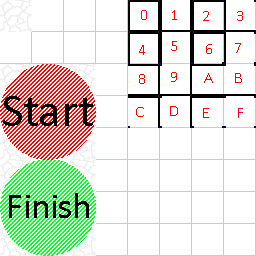
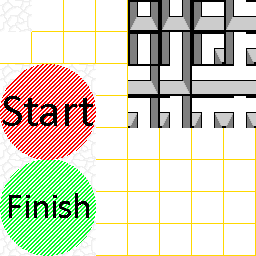
editing TODO list and making a better tilemap

Changed region(s): [[0.5, 0.0, 1.0, 0.5]]

diff --git a/src/me/dylan/mvcGame/game/GameController.java b/src/me/dylan/mvcGame/game/GameController.java
@@ -1,6 +1,5 @@
 package me.dylan.mvcGame.game;
 
-import me.dylan.mvcGame.game.gameObjects.Tiles;
 import me.dylan.mvcGame.game.gameObjects.specialTiles.SpecialTile;
 import me.dylan.mvcGame.main.MainModel;
 import me.dylan.mvcGame.state.State;
@@ -24,26 +23,25 @@ public class GameController extends State {
     public void init(int previousState) {
         SpecialTile.registerAllSpecialTiles();
 
-        /*GameModel model = new GameModel(mainModel, 40, 29);
+        GameModel model = new GameModel(mainModel, 40, 29);
         for(int i = 0; i < (40 * 29); i++){
-            if((i / 40) % 4 == 0 || i % 40 == 0 || i % 40 == model.getWorldXSize() - 1) model.setTileID(Tiles.WALL_ID, i % 40, i / 40);
-            else model.setTileID(Tiles.FLOOR_ID, i % 40, i / 40);
+            model.setTileID((byte)(Math.random() * 2 + 1), i % 40, i / 40);
 
-            model.setUnderGroundColor(/*(int)(Math.random() * 256 * 256 * 256)*//* 256 * 256 * 256 - 1, i % 40, i / 40);
+            model.setUnderGroundColor(/*(int)(Math.random() * 256 * 256 * 256)*/ 256 * 256 * 256 - 1, i % 40, i / 40);
         }
 
 
-        GameMapLoader.saveMap(model, "game1.sg");*/
+        //GameMapLoader.saveMap(model, "random.sg");
 
         this.model = GameMapLoader.loadMap(mainModel, "game1.sg");
-        view = new GameView(model);
+        view = new GameView(this.model);
 
-        model.setViewZoom(0.5f);
-        model.setViewX(model.getWorldXSize() * 64 / 2);
-        model.setViewY(model.getWorldYSize() * 64 / 2);
+        this.model.setViewZoom(0.5f);
+        this.model.setViewX(model.getWorldXSize() * 64 / 2);
+        this.model.setViewY(model.getWorldYSize() * 64 / 2);
 
-        //TODO make code runner --> method handling from code runner
-        //TODO world editor
+        //TODO make code runner --> for handling world code
+        //TODO world editor --> adaptive worlds with world code
 
         codeIDEController = new CodeIDEController(model);
     }

diff --git a/src/me/dylan/mvcGame/game/gameObjects/RobotPlayer.java b/src/me/dylan/mvcGame/game/gameObjects/RobotPlayer.java
@@ -3,11 +3,12 @@ package me.dylan.mvcGame.game.gameObjects;
 public class RobotPlayer {
     private float x, y, rotate;
 
-    private String codeToRun;
 
     //TODO load method (Controller)
-    //TODO make sensorcalculator (Controller)
+    //TODO make sensor calculator (Controller)
     //TODO show debug on screen (leds, small text)
+    //TODO make code runner
     //TODO update robot on code runner
     //TODO make robot drawer
+    //TODO make drawer for sensors
 }

diff --git a/src/me/dylan/mvcGame/game/gameObjects/Tiles.java b/src/me/dylan/mvcGame/game/gameObjects/Tiles.java
@@ -4,6 +4,6 @@ public class Tiles {
     public static final byte SPECIAL_ID = 0;
     public static final byte FLOOR_ID = 1;
     public static final byte WALL_ID = 2;
-    public static final byte START_ID = 3; //TODO make a special tile for the start
-    public static final byte END_ID = 4; //TODO make a special tile for the end
+    public static final byte START_ID = 3;
+    public static final byte END_ID = 4;
 }
